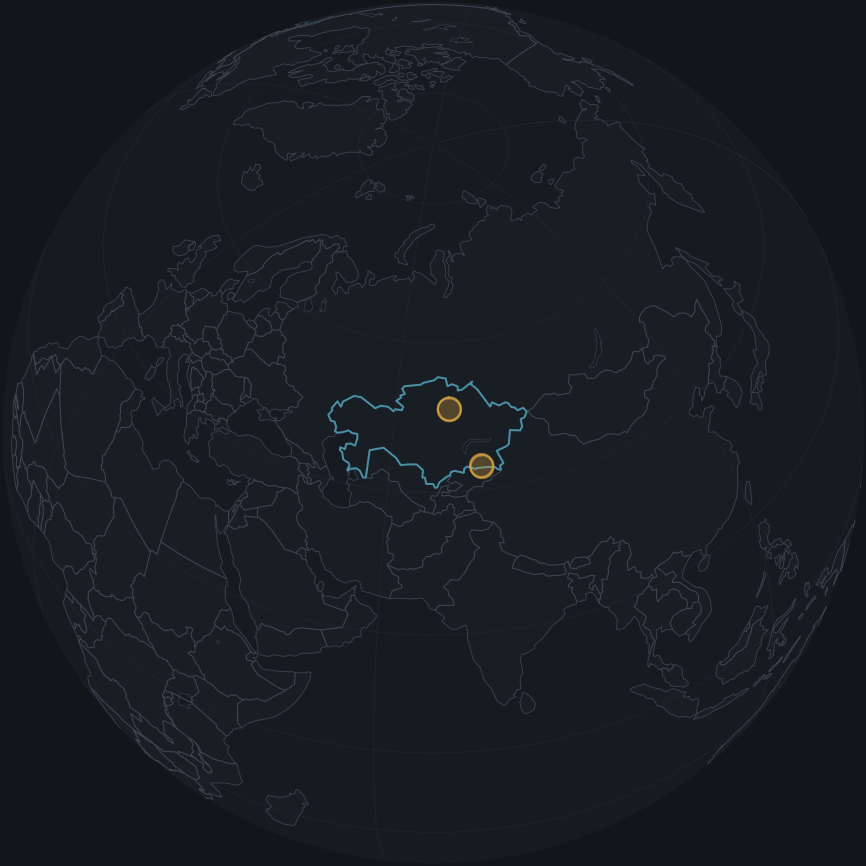
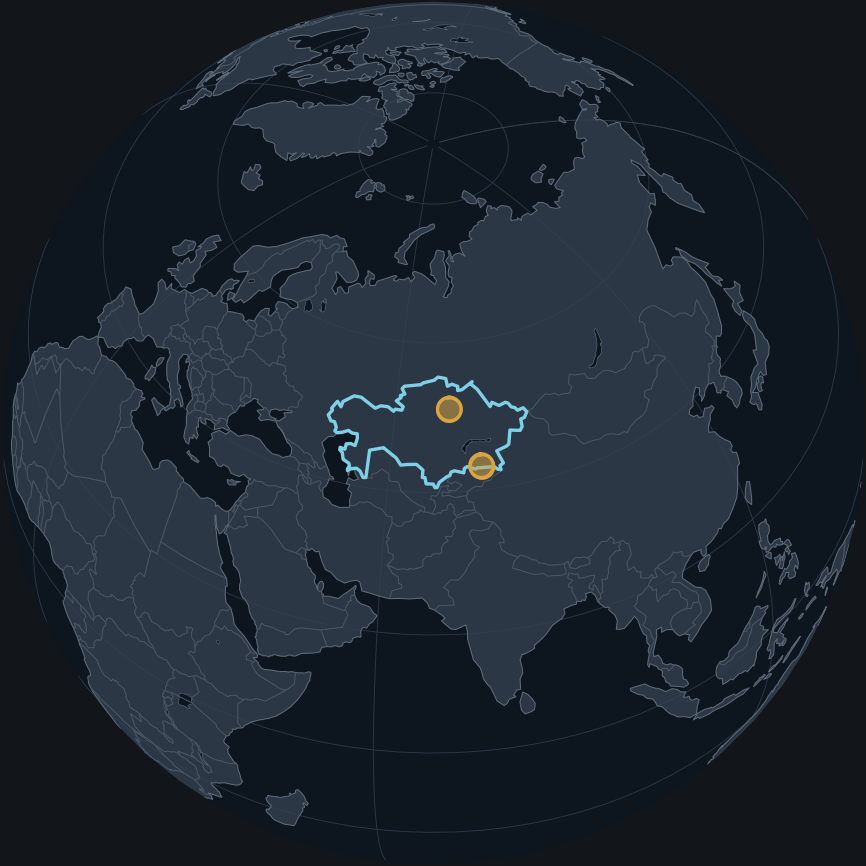
Raise globe contrast and fix its mobile layout

diff --git a/tools/build_maps.py b/tools/build_maps.py
@@ -133,28 +133,47 @@ def new_figure(proj, size=(12, 7.5)):
     return fig, ax
 
 
-def add_land(ax, scale="50m", far=False):
-    ax.add_feature(cfeature.OCEAN.with_scale(scale), facecolor=OCEAN, zorder=0)
-    ax.add_feature(cfeature.LAND.with_scale(scale),
-                   facecolor=LAND_FAR if far else LAND, zorder=1)
-    ax.add_feature(cfeature.LAKES.with_scale(scale), facecolor=OCEAN,
-                   edgecolor=COAST, linewidth=0.4, zorder=2)
+# The globe is rendered small and viewed at phone size, where the subtle
+# land/ocean separation that reads well on a wide chapter map disappears
+# entirely. It gets its own higher-contrast palette: darker water, lighter land,
+# brighter coastlines.
+GLOBE_COLORS = {
+    "ocean": "#0d151f",
+    "land": "#2c3745",
+    "coast": "#5d6a78",
+    "border": "#4b5665",
+    "kz": "#7fd0e6",
+    "kz_width": 2.2,
+}
+
+
+def add_land(ax, scale="50m", colors=None):
+    c = colors or {}
+    ocean = c.get("ocean", OCEAN)
+    land = c.get("land", LAND)
+    coast = c.get("coast", COAST)
+    border = c.get("border", BORDER)
+    ax.add_feature(cfeature.OCEAN.with_scale(scale), facecolor=ocean, zorder=0)
+    ax.add_feature(cfeature.LAND.with_scale(scale), facecolor=land, zorder=1)
+    ax.add_feature(cfeature.LAKES.with_scale(scale), facecolor=ocean,
+                   edgecolor=coast, linewidth=0.4, zorder=2)
     ax.add_feature(cfeature.COASTLINE.with_scale(scale),
-                   edgecolor=COAST, linewidth=0.6, zorder=3)
+                   edgecolor=coast, linewidth=0.7, zorder=3)
     ax.add_feature(cfeature.BORDERS.with_scale(scale),
-                   edgecolor=BORDER, linewidth=0.7, zorder=3)
+                   edgecolor=border, linewidth=0.7, zorder=3)
 
 
-def add_kazakhstan_outline(ax, scale="50m"):
+def add_kazakhstan_outline(ax, scale="50m", colors=None):
     """Trace the subject country a little brighter than its neighbors."""
+    c = colors or {}
     path = shpreader.natural_earth(resolution=scale, category="cultural",
                                    name="admin_0_countries")
     for rec in shpreader.Reader(path).records():
         iso = rec.attributes.get("ADM0_A3") or rec.attributes.get("ISO_A3")
         if iso == "KAZ":
             ax.add_geometries([rec.geometry], ccrs.PlateCarree(),
-                              facecolor="none", edgecolor=BORDER_KZ,
-                              linewidth=1.3, zorder=4)
+                              facecolor="none", edgecolor=c.get("kz", BORDER_KZ),
+                              linewidth=c.get("kz_width", 1.3), zorder=4)
             return
 
 
@@ -205,7 +224,7 @@ def geodesic_circle(lat, lon, radius_km, n=96):
 
 
 def draw_regions(ax, proj, coords, ordered, highlight, radius_km, labels=True,
-                 route=False):
+                 route=False, boost=1.0):
     """Approximate circular regions rather than points.
 
     A point implies a GPS fix on a family's home. A soft circle says "somewhere
@@ -224,9 +243,12 @@ def draw_regions(ax, proj, coords, ordered, highlight, radius_km, labels=True,
         ring = geodesic_circle(lat, lon, radius_km if active else radius_km * 0.72)
         lons, lats = zip(*ring)
         ax.fill(lons, lats, transform=ccrs.PlateCarree(), color=POINT,
-                alpha=0.17 if active else 0.08, zorder=5, linewidth=0)
+                alpha=min(1.0, (0.17 if active else 0.08) * boost),
+                zorder=5, linewidth=0)
         ax.plot(lons, lats, transform=ccrs.PlateCarree(), color=POINT,
-                alpha=0.7 if active else 0.3, lw=1.4 if active else 0.9, zorder=6)
+                alpha=min(1.0, (0.7 if active else 0.3) * boost),
+                lw=(1.4 if active else 0.9) * (1.4 if boost > 1 else 1.0),
+                zorder=6)
 
     if route and len(ordered) > 1:
         lons = [coords[g][1] for g in ordered]
@@ -271,14 +293,16 @@ def map_globe(coords, ordered) -> tuple:
     """Orthographic: where on Earth this is. The limb is the point."""
     proj = ccrs.Orthographic(central_longitude=KZ_LON, central_latitude=KZ_LAT)
     fig, ax = new_figure(proj, size=(8, 8))
+    ax.patch.set_facecolor(GLOBE_COLORS["ocean"])
     ax.set_global()
-    add_land(ax, "110m", far=True)
-    ax.gridlines(color=GRID, linewidth=0.5, alpha=0.7)
-    add_kazakhstan_outline(ax, "110m")
+    add_land(ax, "110m", colors=GLOBE_COLORS)
+    ax.gridlines(color="#33404f", linewidth=0.6, alpha=0.8)
+    add_kazakhstan_outline(ax, "110m", colors=GLOBE_COLORS)
     # All four regions, unlabeled. At this scale Astana/shapan and
     # Almaty/mountains each merge into one blob, which is the right reading:
     # the globe answers "where on Earth", not "which chapter".
-    draw_regions(ax, proj, coords, ordered, None, radius_km=170, labels=False)
+    draw_regions(ax, proj, coords, ordered, None, radius_km=175, labels=False,
+                 boost=1.9)
     return fig, ax
 
 
